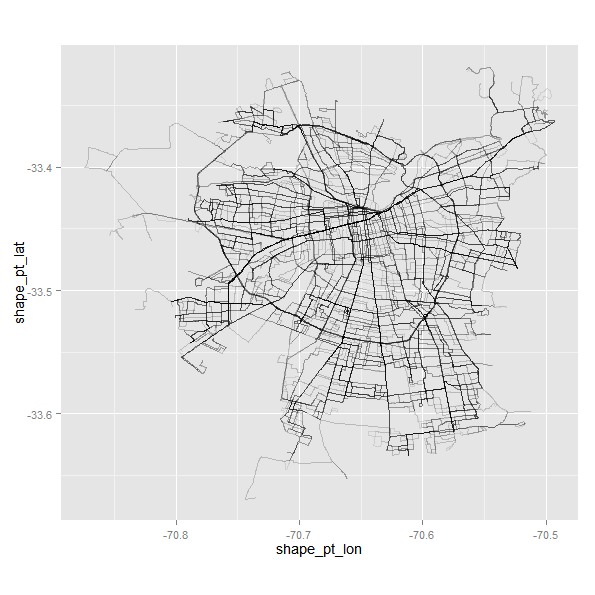
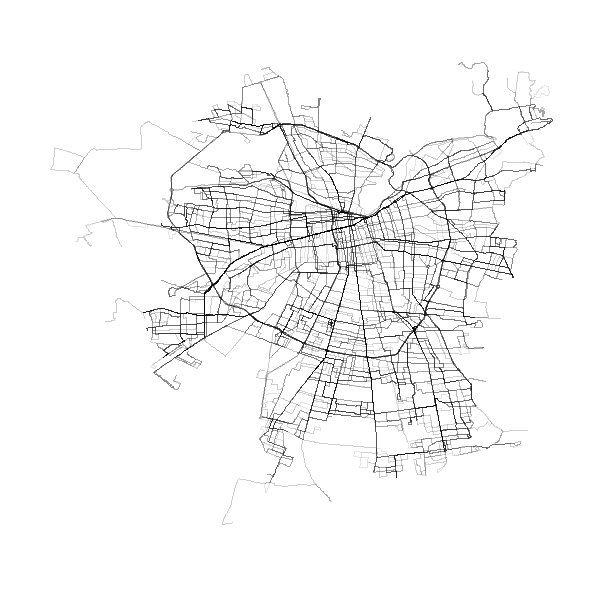
testing head error

diff --git a/_posts/2014-10-24-plotting-gtfs-data-with-r.md b/_posts/2014-10-24-plotting-gtfs-data-with-r.md
@@ -1,14 +1,14 @@
 ---
- output:
-   html_fragment:
-     keep_md: yes
- categories: R
- layout: post
+output:
+ html_fragment:
+  keep_md: yes
+categories: R
+layout: post
 ---
 
 
 
- Days ago a study says that Santiago, city where I live, has one of the best
+Days ago a study says that Santiago, city where I live, has one of the best
 public transport system in LATAM (WAT?! define *best* please!). So I've search
 for some information and I found
 [this](http://www.siemens.com/press/pool/de/feature/2014/infrastructure-cities/2014-06-mobility-opportunity/slide-credo.pdf#page=6).
@@ -20,9 +20,22 @@ This information comes in a zip file with information about routes, stations
 (name, location), shapes (route, path) and other elements in the system. For example
 the `shape.txt` file have the geographic path of each route.
 
+Let's see the files:
+
 
 ```r
-shapes <- read.csv("data/gtfs/shapes.txt")
+dir("data/gtfs/")
+```
+
+```
+## [1] "routes.txt" "shapes.txt" "stops.txt"  "trips.txt"
+```
+
+```r
+library("dplyr")
+library("readr")
+
+shapes <- read_csv("data/gtfs/shapes.txt")
 head(shapes)
 ```
 
@@ -41,8 +54,6 @@ It's simple plot this data with ggplot.
 
 
 ```r
-library("plyr")
-library("dplyr")
 library("ggplot2")
 library("ggthemes")
 
@@ -50,15 +61,17 @@ library("ggthemes")
 p <- ggplot(shapes) +
   geom_path(aes(shape_pt_lon, shape_pt_lat, group = shape_id),
             size = .2, alpha = .1) +
-  coord_equal()
+  coord_equal() +
+  theme_map()
 p
 ```
 
 <img src="/images/plotting-gtfs-data_with-r/unnamed-chunk-3-1.png" title="plot of chunk unnamed-chunk-3" alt="plot of chunk unnamed-chunk-3" style="display: block; margin: auto;" />
 
-Is a good plot with a one line of code to start. But let's get the things more fun.
+Is a good plot with a few lines of code. But let's get the things more fun:
 Transantiago have a subway called *Metro*, so let's plot with more detail showing the
 stations and the routes (lines) over this plot.
+
 We need obtain the stops and routes which belong to *Metro*. In this case, the *stop_id*
 don't contain a number so we filter the metro's stations with `!grepl("\\d", stop_id)`.
 Then we need filter the shapes and routes for the *metro*. At the beggining is a bit complicated,
@@ -66,7 +79,15 @@ in fact I needed some time to see the association between all this tables.
 
 
 ```r
-routes <- read.csv("data/gtfs/routes.txt")
+routes <- read_csv("data/gtfs/routes.txt")
+```
+
+```
+## Warning: 8 problems parsing 'data/gtfs/routes.txt'. See problems(...) for
+## more details.
+```
+
+```r
 trips <- read.csv("data/gtfs/trips.txt")
 stops <- read.csv("data/gtfs/stops.txt")
 
@@ -91,14 +112,7 @@ shapes_colors <- left_join(left_join(shapes %>% select(shape_id) %>% unique(),
                            routes %>% select(route_id, route_color) %>% unique(),
                            by = "route_id") %>%
   mutate(route_color = paste0("#", route_color))
-```
 
-```
-## Warning in left_join_impl(x, y, by$x, by$y): joining factors with different
-## levels, coercing to character vector
-```
-
-```r
 shapes_colors_metro <- shapes_colors %>%
   filter(shape_id %in% trips$shape_id[trips$route_id %in% routes_metro$route_id]) %>% unique() %>%
   arrange(shape_id)
@@ -108,41 +122,49 @@ The data is ready. So it's time to make another plot.
 
 
 ```r
-# p2 <- ggplot() +
-#   geom_path(data=shapes, aes(shape_pt_lon, shape_pt_lat, group=shape_id),
-#             color="white", size=.2, alpha=.05) +
-#   geom_path(data=shapes_metro, aes(shape_pt_lon, shape_pt_lat, group=shape_id, colour=shape_id),
-#             size = 2, alpha=.7) +
-#   scale_color_manual(values=shapes_colors_metro$route_color) +
-#   geom_point(data=stops_metro, aes(stop_lon, stop_lat), shape=21, colour="white", alpha =.8) +
-#   coord_equal() +
-#   theme_map() +
-#   theme(plot.background = element_rect(fill = "black", colour = "black"),
-#         title = element_text(hjust=1, colour="white", size = 8),
-#         axis.title.x = element_text(hjust=0, colour="white", size = 7),
-#         legend.position = "none") +
-#   xlab(sprintf("Joshua Kunst | Jkunst.com %s",format(Sys.Date(), "%Y"))) +
-#   ggtitle("TRANSANTIAGO\nSantiago's public transport system")
-# p2
+p2 <- ggplot() +
+  geom_path(data=shapes, aes(shape_pt_lon, shape_pt_lat, group=shape_id),
+            color="white", size=.2, alpha=.05) +
+  geom_path(data=shapes_metro, aes(shape_pt_lon, shape_pt_lat, group=shape_id, colour=shape_id),
+            size = 2, alpha=.7) +
+  scale_color_manual(values=shapes_colors_metro$route_color) +
+  geom_point(data=stops_metro, aes(stop_lon, stop_lat), shape=21, colour="white", alpha =.8) +
+  coord_equal() +
+  theme_map() +
+  theme(plot.background = element_rect(fill = "black", colour = "black"),
+        title = element_text(hjust=1, colour="white", size = 8),
+        axis.title.x = element_text(hjust=0, colour="white", size = 7),
+        legend.position = "none") +
+  xlab(sprintf("Joshua Kunst | Jkunst.com %s", format(Sys.Date(), "%Y"))) +
+  ggtitle("TRANSANTIAGO\nSantiago's public transport system")
+p2
 ```
+
+<img src="/images/plotting-gtfs-data_with-r/unnamed-chunk-6-1.png" title="plot of chunk unnamed-chunk-6" alt="plot of chunk unnamed-chunk-6" style="display: block; margin: auto;" />
 
 Or we can just plot only te metro routes with the follow code:
 
 
 ```r
-# p3 <- ggplot() +
-# geom_path(data=shapes_metro, aes(shape_pt_lon, shape_pt_lat, group=shape_id, colour=shape_id), size = 2, alpha=.8) +
-# scale_color_manual(values=shapes_colors_metro$route_color) +
-# geom_point(data=stops_metro, aes(stop_lon, stop_lat), shape=21, colour="white", alpha =.8) +
-# coord_equal() +
-# theme_map() +
-# theme(plot.background = element_rect(fill = "black", colour = "black"),
-# title = element_text(hjust=1, colour="white", size = 8),
-# axis.title.x = element_text(hjust=0, colour="white", size = 7)) +
-# xlab(sprintf("Joshua Kunst | Jkunst.com %s",format(Sys.Date(), "%Y"))) +
-# ggtitle("Santiago's METRO") 
-# p3
+p3 <- ggplot() +
+  geom_path(data = shapes_metro,
+            aes(shape_pt_lon, shape_pt_lat, group = shape_id, colour = shape_id),
+            size = 2, alpha =.8) +
+  scale_color_manual(values = shapes_colors_metro$route_color) +
+  geom_point(data = stops_metro,
+             aes(stop_lon, stop_lat),
+             shape = 21, colour = "white", alpha = .8, size = 3) +
+  coord_equal() +
+  theme_map() +
+  theme(plot.background = element_rect(fill = "black", colour = "black"),
+        title = element_text(hjust=1, colour="white", size = 8),
+        legend.position = "none") + 
+  xlab(sprintf("Joshua Kunst | Jkunst.com %s", format(Sys.Date(), "%Y"))) +
+  ggtitle("Santiago's METRO") 
+p3
 ```
+
+<img src="/images/plotting-gtfs-data_with-r/unnamed-chunk-7-1.png" title="plot of chunk unnamed-chunk-7" alt="plot of chunk unnamed-chunk-7" style="display: block; margin: auto;" />
 
 You can see the original image on wikipedia
 [here](http://upload.wikimedia.org/wikipedia/commons/archive/4/49/20091229144454%21Metro_de_Santiago.svg).
